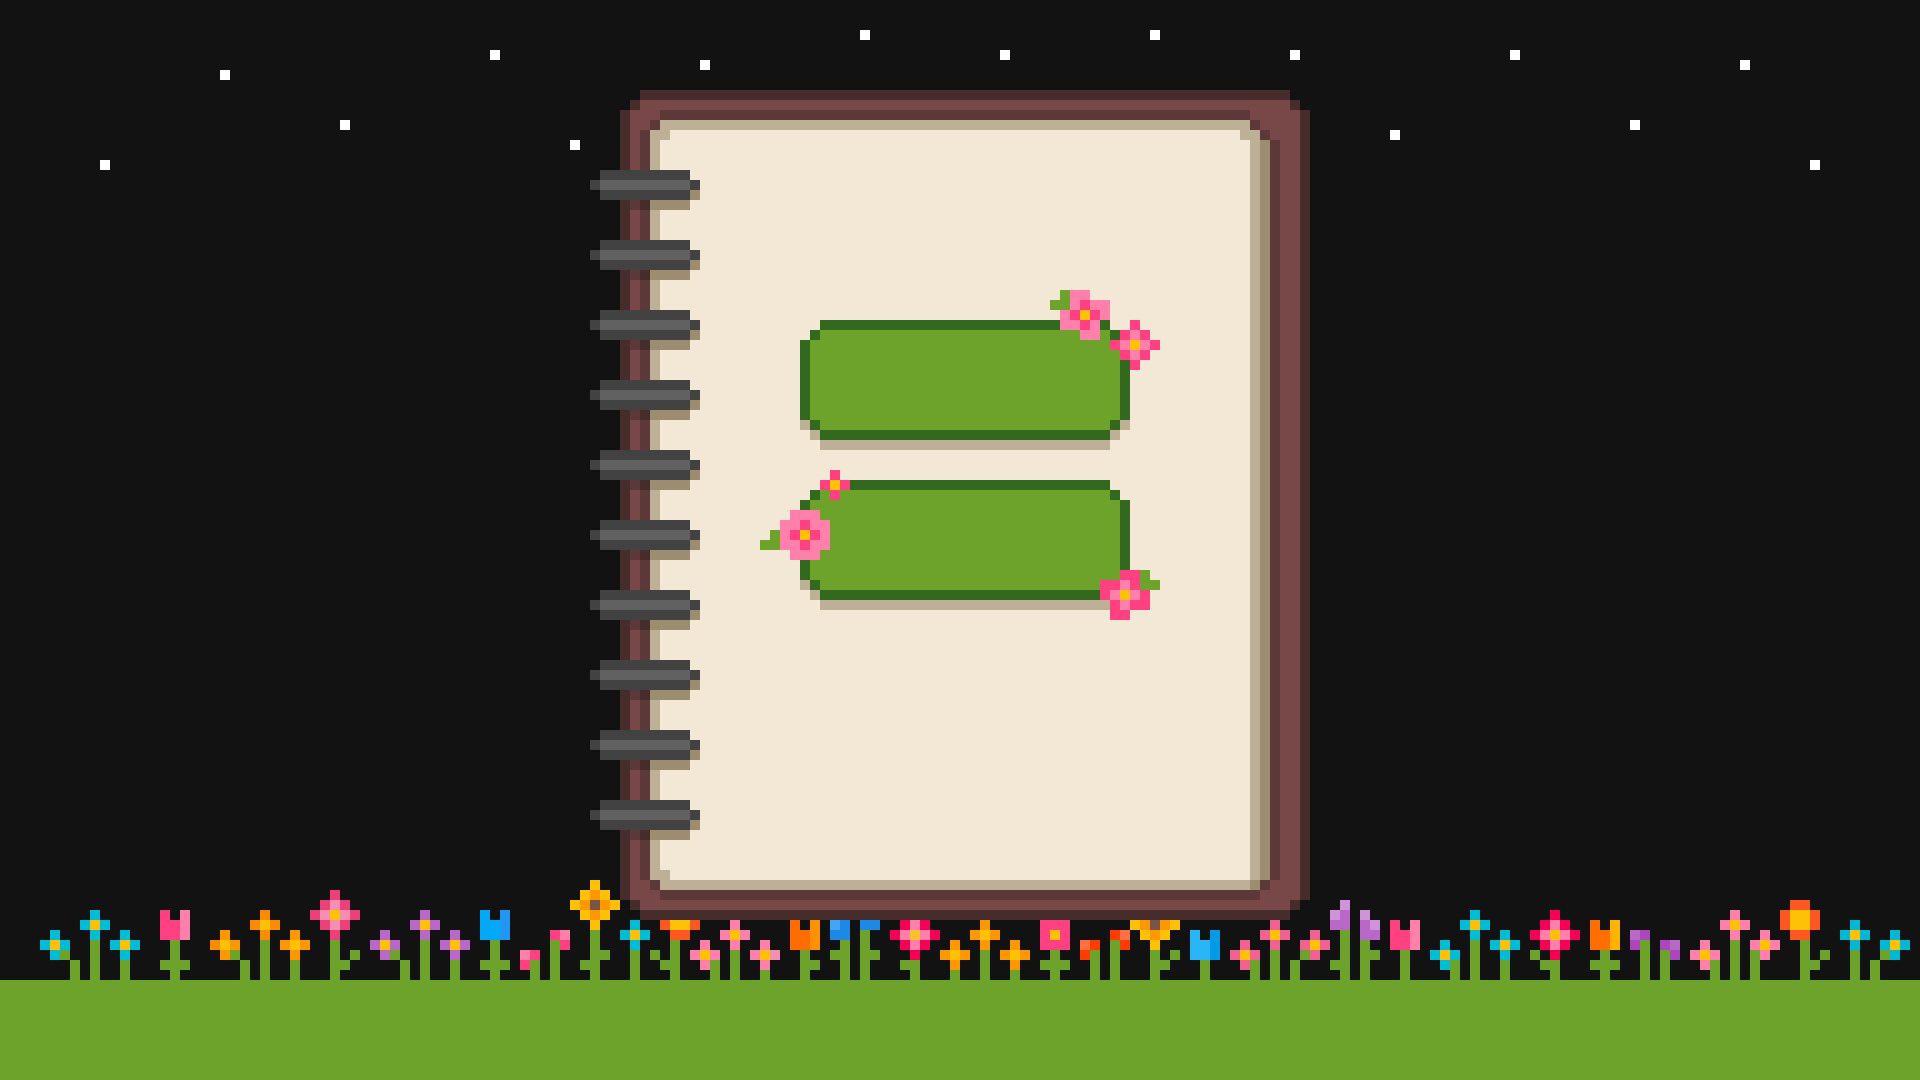
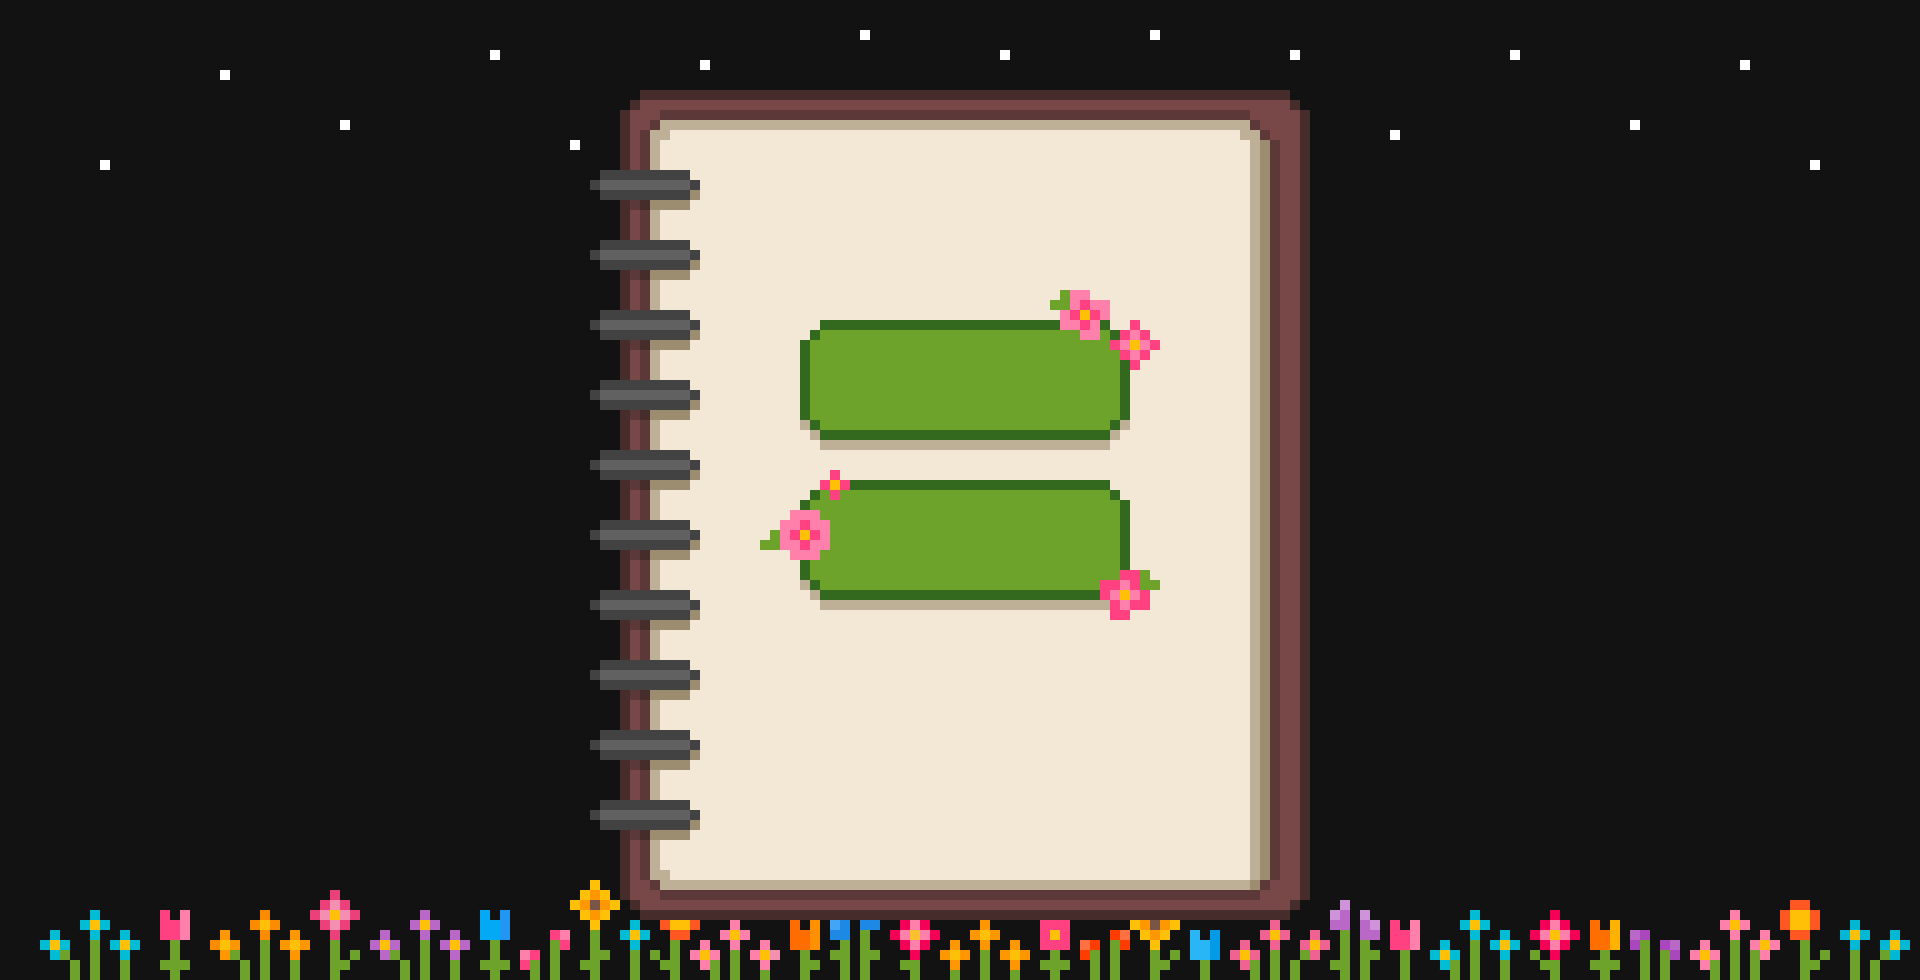
separated bg and grass for nav bar

Changed region(s): [[0.0, 0.7347, 1.0, 1.0], [0.2812, 0.0612, 0.6875, 0.6429], [0.3438, 0.6735, 0.375, 0.7041]]

diff --git a/lib/settings.dart b/lib/settings.dart
@@ -9,70 +9,74 @@ class SettingsPage extends StatelessWidget {
   Widget build(BuildContext context) {
     return Consumer<ThemeProvider>(
       builder: (context, themeProvider, _) {
-        return Container(
-          decoration: BoxDecoration(
-            image: DecorationImage(
-              image: AssetImage(
-                themeProvider.getImagePath('assets/images/settings_bg.png'),
+        return SafeArea(
+          child: Padding(
+            padding: const EdgeInsets.only(bottom: 100), 
+            child: Container(
+              decoration: BoxDecoration(
+                image: DecorationImage(
+                  image: AssetImage(
+                    themeProvider.getImagePath('assets/images/settings_bg.png'),
+                  ),
+                  fit: BoxFit.cover,
+                  alignment: Alignment.bottomCenter,
+                ),
               ),
-              fit: BoxFit.cover,
-            ),
-          ),
-          child: SafeArea(
-            child: Center(
-              child: Column(
-                mainAxisAlignment: MainAxisAlignment.start,
-                children: [
-                  const SizedBox(height: 120),
-                  Text(
-                    'Settings',
-                    style: TextStyle(
-                      fontSize: 24,
-                      fontWeight: FontWeight.w700,
-                      fontFamily: 'Montserrat',
-                      color: themeProvider.isDarkMode
-                          ? Colors.white
-                          : Colors.black,
+              child: Center(
+                child: Column(
+                  mainAxisAlignment: MainAxisAlignment.start,
+                  children: [
+                    const SizedBox(height: 120),
+                    Text(
+                      'Settings',
+                      style: TextStyle(
+                        fontSize: 24,
+                        fontWeight: FontWeight.w700,
+                        fontFamily: 'Montserrat',
+                        color: themeProvider.isDarkMode
+                            ? Colors.white
+                            : Colors.black,
+                      ),
                     ),
-                  ),
-                  const SizedBox(height: 40),
-                  Container(
-                    padding: const EdgeInsets.only(right: 14),
-                    child: Row(
-                      mainAxisSize: MainAxisSize.min,
-                      mainAxisAlignment: MainAxisAlignment.center,
-                      children: [
-                        Image.asset(
-                          themeProvider.isDarkMode
-                              ? 'assets/images/dark_mode.png'
-                              : 'assets/images/light_mode.png',
-                          width: 80,
-                          height: 80,
-                        ),
-                        const SizedBox(width: 20),
-                        Text(
-                          themeProvider.isDarkMode ? 'Dark Mode' : 'Light Mode',
-                          style: TextStyle(
-                            fontWeight: FontWeight.w700,
-                            fontFamily: 'Montserrat',
-                            fontSize: 20,
-                            color: themeProvider.isDarkMode
-                                ? Colors.white
-                                : Colors.black,
+                    const SizedBox(height: 40),
+                    Container(
+                      padding: const EdgeInsets.only(right: 14),
+                      child: Row(
+                        mainAxisSize: MainAxisSize.min,
+                        mainAxisAlignment: MainAxisAlignment.center,
+                        children: [
+                          Image.asset(
+                            themeProvider.isDarkMode
+                                ? 'assets/images/dark_mode.png'
+                                : 'assets/images/light_mode.png',
+                            width: 80,
+                            height: 80,
                           ),
-                        ),
-                        const SizedBox(width: 20),
-                        Switch(
-                          value: themeProvider.isDarkMode,
-                          onChanged: (value) {
-                            themeProvider.toggleTheme();
-                          },
-                          activeThumbColor: Colors.lightGreen,
-                        ),
-                      ],
+                          const SizedBox(width: 20),
+                          Text(
+                            themeProvider.isDarkMode ? 'Dark Mode' : 'Light Mode',
+                            style: TextStyle(
+                              fontWeight: FontWeight.w700,
+                              fontFamily: 'Montserrat',
+                              fontSize: 20,
+                              color: themeProvider.isDarkMode
+                                  ? Colors.white
+                                  : Colors.black,
+                            ),
+                          ),
+                          const SizedBox(width: 20),
+                          Switch(
+                            value: themeProvider.isDarkMode,
+                            onChanged: (value) {
+                              themeProvider.toggleTheme();
+                            },
+                            activeThumbColor: Colors.lightGreen,
+                          ),
+                        ],
+                      ),
                     ),
-                  ),
-                ],
+                  ],
+                ),
               ),
             ),
           ),

diff --git a/lib/main.dart b/lib/main.dart
@@ -9,7 +9,7 @@ import 'settings.dart';
 void main() async {
   WidgetsFlutterBinding.ensureInitialized();
   if (Platform.isWindows || Platform.isLinux || Platform.isMacOS) {
-    await DesktopWindow.setWindowSize(const Size(800, 1000));
+    await DesktopWindow.setWindowSize(const Size(780, 1000));
   }
   runApp(
     ChangeNotifierProvider(
@@ -51,33 +51,72 @@ class _MainScreenState extends State<MainScreen> {
   @override
   Widget build(BuildContext context) {
     return Scaffold(
-      body: Stack(children: [_pages[_selectedIndex], _buildNavBar()]),
-    );
-  }
-
-  Widget _buildNavBar() {
-    return Positioned(
-      bottom: 6,
-      left: 0,
-      right: 0,
-      child: Row(
-        mainAxisAlignment: MainAxisAlignment.center,
-        children: [
-          IconButton(
-            icon: Image.asset('assets/images/home.png', width: 60),
-            onPressed: () => _onItemTapped(0),
-          ),
-          const SizedBox(width: 40),
-          IconButton(
-            icon: Image.asset('assets/images/journal.png', width: 60),
-            onPressed: () => _onItemTapped(1),
-          ),
-          const SizedBox(width: 40),
-          IconButton(
-            icon: Image.asset('assets/images/settings.png', width: 60),
-            onPressed: () => _onItemTapped(2),
-          ),
-        ],
+      body: Consumer<ThemeProvider>(
+        builder: (context, themeProvider, _) {
+          return Stack(
+            children: [
+              Column(
+                children: [
+                  Expanded(
+                    child: Container(
+                      width: double.infinity,
+                      decoration: BoxDecoration(
+                        image: DecorationImage(
+                          image: AssetImage(
+                            themeProvider.getImagePath('assets/images/bg.png'),
+                          ),
+                          fit: BoxFit.cover,
+                          alignment: Alignment.bottomCenter,
+                        ),
+                      ),
+                    ),
+                  ),
+                  Image.asset(
+                    themeProvider.getImagePath('assets/images/grass.png'),
+                    width: double.infinity,
+                    height: 100,
+                    fit: BoxFit.cover,
+                  ),
+                ],
+              ),
+              _pages[_selectedIndex],
+              Positioned(
+                bottom: 0,
+                left: 0,
+                right: 0,
+                height: 100,
+                child: Center(
+                  child: Row(
+                    mainAxisAlignment: MainAxisAlignment.center,
+                    mainAxisSize: MainAxisSize.min,
+                    children: [
+                      IconButton(
+                        icon: Image.asset('assets/images/home.png', width: 60),
+                        onPressed: () => _onItemTapped(0),
+                      ),
+                      const SizedBox(width: 40),
+                      IconButton(
+                        icon: Image.asset(
+                          'assets/images/journal.png',
+                          width: 60,
+                        ),
+                        onPressed: () => _onItemTapped(1),
+                      ),
+                      const SizedBox(width: 40),
+                      IconButton(
+                        icon: Image.asset(
+                          'assets/images/settings.png',
+                          width: 60,
+                        ),
+                        onPressed: () => _onItemTapped(2),
+                      ),
+                    ],
+                  ),
+                ),
+              ),
+            ],
+          );
+        },
       ),
     );
   }
@@ -90,16 +129,9 @@ class HomePage extends StatelessWidget {
   Widget build(BuildContext context) {
     return Consumer<ThemeProvider>(
       builder: (context, themeProvider, _) {
-        return Container(
-          decoration: BoxDecoration(
-            image: DecorationImage(
-              image: AssetImage(
-                themeProvider.getImagePath('assets/images/bg.png'),
-              ),
-              fit: BoxFit.cover,
-            ),
-          ),
-          child: SafeArea(
+        return SafeArea(
+          child: Padding(
+            padding: const EdgeInsets.only(bottom: 100),
             child: Column(
               children: [
                 Padding(
@@ -136,7 +168,6 @@ class HomePage extends StatelessWidget {
                     ),
                   ),
                 ),
-                const SizedBox(height: 100),
               ],
             ),
           ),

diff --git a/lib/journal.dart b/lib/journal.dart
@@ -9,23 +9,18 @@ class JournalPage extends StatelessWidget {
   Widget build(BuildContext context) {
     return Consumer<ThemeProvider>(
       builder: (context, themeProvider, _) {
-        return Container(
-          decoration: BoxDecoration(
-            image: DecorationImage(
-              image: AssetImage(
-                themeProvider.getImagePath('assets/images/journal1_bg.png'),
-              ),
-              fit: BoxFit.cover,
-            ),
-          ),
-          child: const Center(
-            child: Text(
-              'Journal',
-              style: TextStyle(
-                fontSize: 24,
-                color: Colors.white,
-                fontWeight: FontWeight.w700,
-                fontFamily: 'Montserrat',
+        return SafeArea(
+          child: Padding(
+            padding: const EdgeInsets.only(bottom: 100),
+            child: Container(
+              decoration: BoxDecoration(
+                image: DecorationImage(
+                  image: AssetImage(
+                    themeProvider.getImagePath('assets/images/journal1_bg.png'),
+                  ),
+                  fit: BoxFit.cover,
+                  alignment: Alignment.bottomCenter,
+                ),
               ),
             ),
           ),
